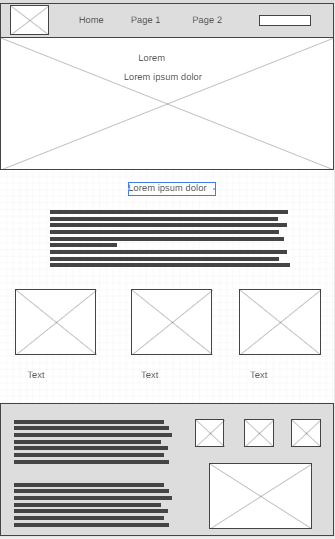
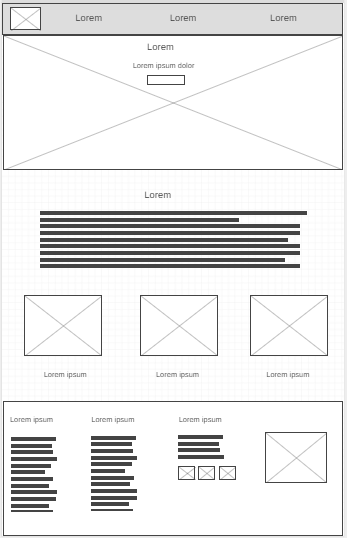
news changes

diff --git a/wwr/business-project/site-plan.html b/wwr/business-project/site-plan.html
@@ -129,7 +129,7 @@
       </p>
       <p>Images for the Home page</p>
         <img src="images/pic1.png" alt="image for homepage">
-        <img src="images/pic2.png" alt="image for homepage">
+        <img src="images/pic4.png" alt="image for homepage">
 
       </ul>
       <h3>Menu page</h3>
@@ -138,7 +138,7 @@
       </p>
       <p>Images for the Page 2</p>
         <img src="images/food1.png" alt="image for page">
-        <img src="images/food2.png" alt="image for page">
+        <img src="images/food4.png" alt="image for page">
 
       </ul>
       <h3>Catering page</h3>
@@ -146,8 +146,8 @@
         The Catering page includes a content that let people know the restaurant do catering and also the Google map to find the location of the restaurant. 
       </p>
       <p>Images for the Page 3</p>
-        <img src="images/catering1.png" alt="image for page3">
-        <img src="images/catering2.png" alt="image for page3">
+        <img src="images/food2.png" alt="image for page3">
+        <img src="images/food13.png" alt="image for page3">
 
       </ul>
       <hr>
@@ -167,13 +167,13 @@
       <p>         
         The Menu page is to explain what menus items are available. 
       </p>
-      <img src="images/pg2.png" alt="page 2 wireframe">
+      <img src="images/page2.png" alt="page 2 wireframe">
 
       <h3>Catering</h3>
       <p>         
         The Catering page is to let people know that the restaurant offers catering. 
       </p>
-      <img src="images/pg3.png" alt="page 3 wireframe">
+      <img src="images/page3.png" alt="page 3 wireframe">
     </main>
   </body>
 
